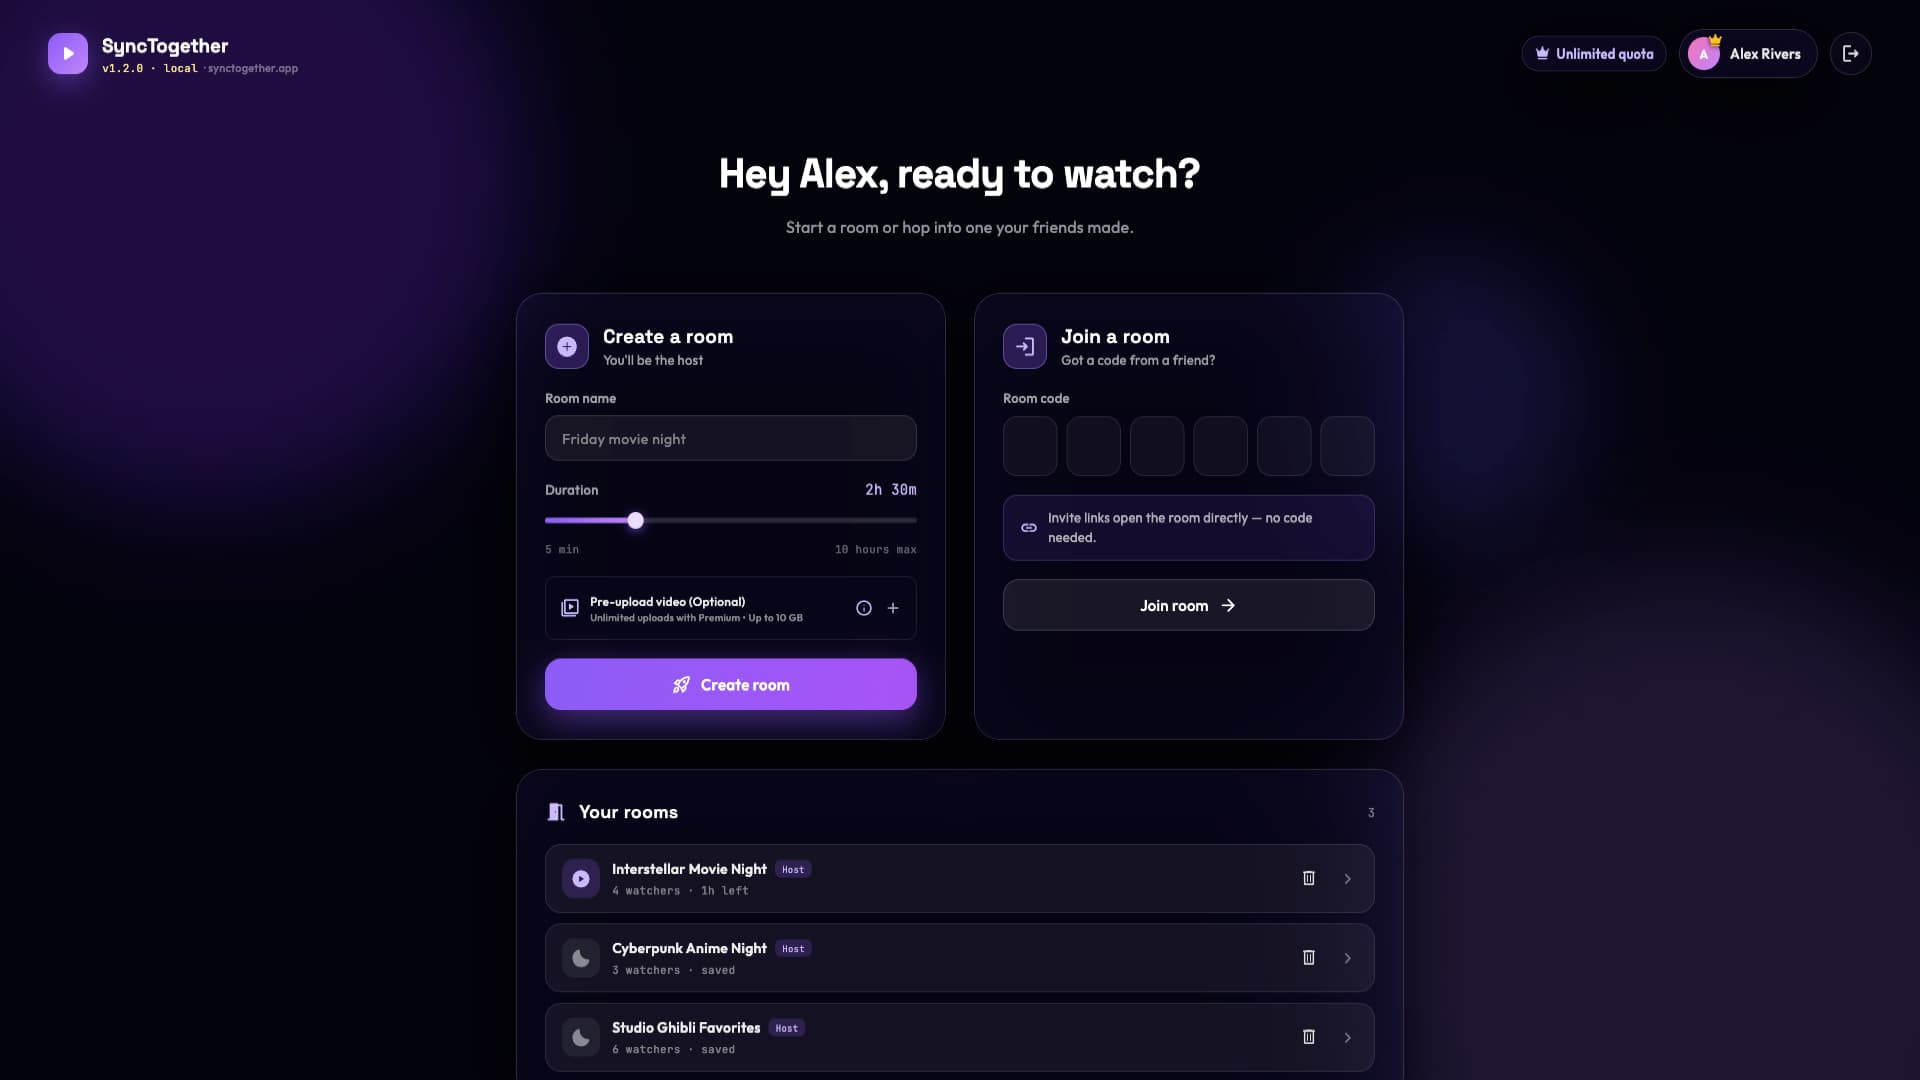
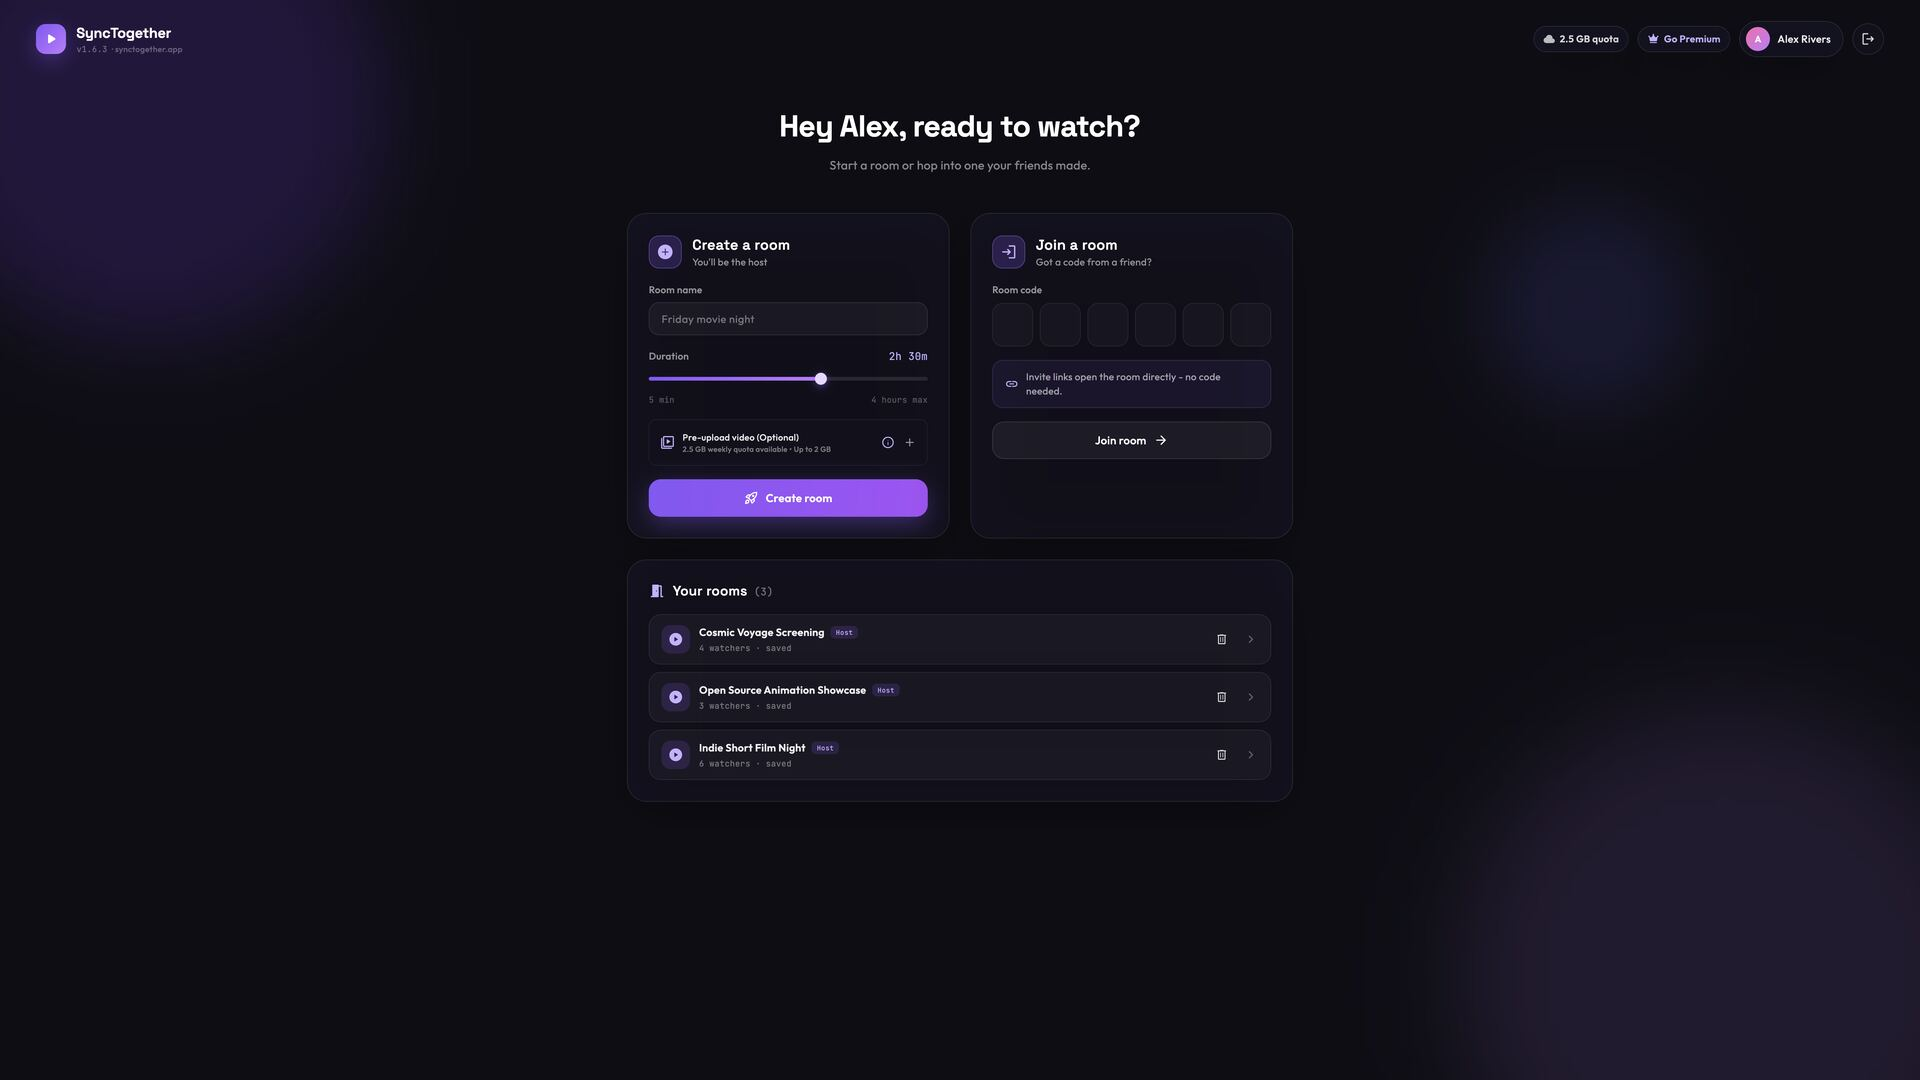
fix(store): reshoot the lobby screenshot against real limits and copy
The old capture could not ship. It carried a "local" debug-stack marker at
v1.2.0, and it advertised a 10-hour session cap and "Unlimited uploads with
Premium - Up to 10 GB", neither of which the product does: tier_limits seeds
max_session_minutes at 240 for every tier. The new one is v1.6.3 against
production, reads "4 hours max", and states the real upload quota.

It also drops two things that were only ever incidental: the room list no
longer names commercial films (a watch-together app pairing a blockbuster
title with "play your local MKV" invites a reading we do not want), and the
persona is Alex Rivers rather than a real account.

Captured full-bleed rather than as a window, so it matches the rest of the set
and needs no crop - 5120x2880 is already 16:9 and scales straight to the
1920x1080 the others use. JPEG q78 4:2:0 lands at 55964 bytes, under the 56361
it replaces, and without window chrome and desktop background to encode there
was budget to spend on quality rather than size.

mock_dependencies: David's chat line claimed audio and video were locked in
"down to the millisecond". Members correct at drift > 1.5 s, so that was the
same overclaim just removed from the hero and the FAQ - and being mock data it
would have been baked into the next capture of the chat screenshot too.

diff --git a/lib/mock/mock_dependencies.dart b/lib/mock/mock_dependencies.dart
@@ -159,7 +159,7 @@ final mockChatMessagesList = [
   ChatMessage(
     senderId: 'user-david',
     displayName: 'David Kim',
-    content: 'Audio and video are locked in down to the millisecond!',
+    content: 'Audio and video are locked in for everyone!',
     sentAt: DateTime.now().subtract(const Duration(minutes: 3)),
   ),
   ChatMessage(
